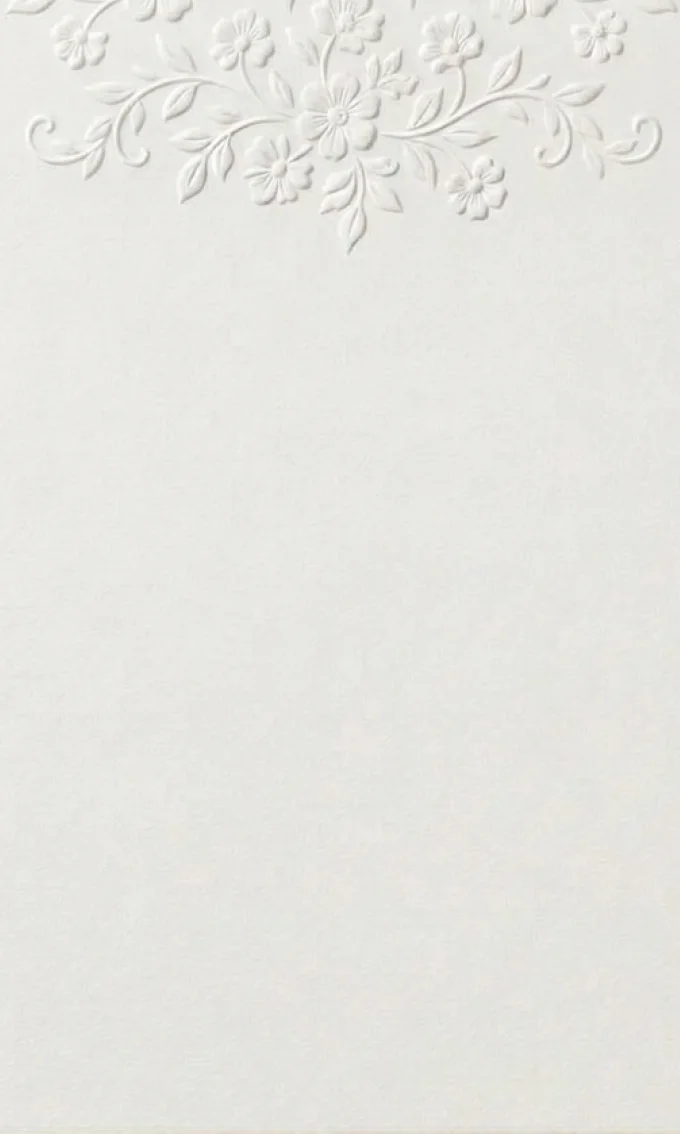
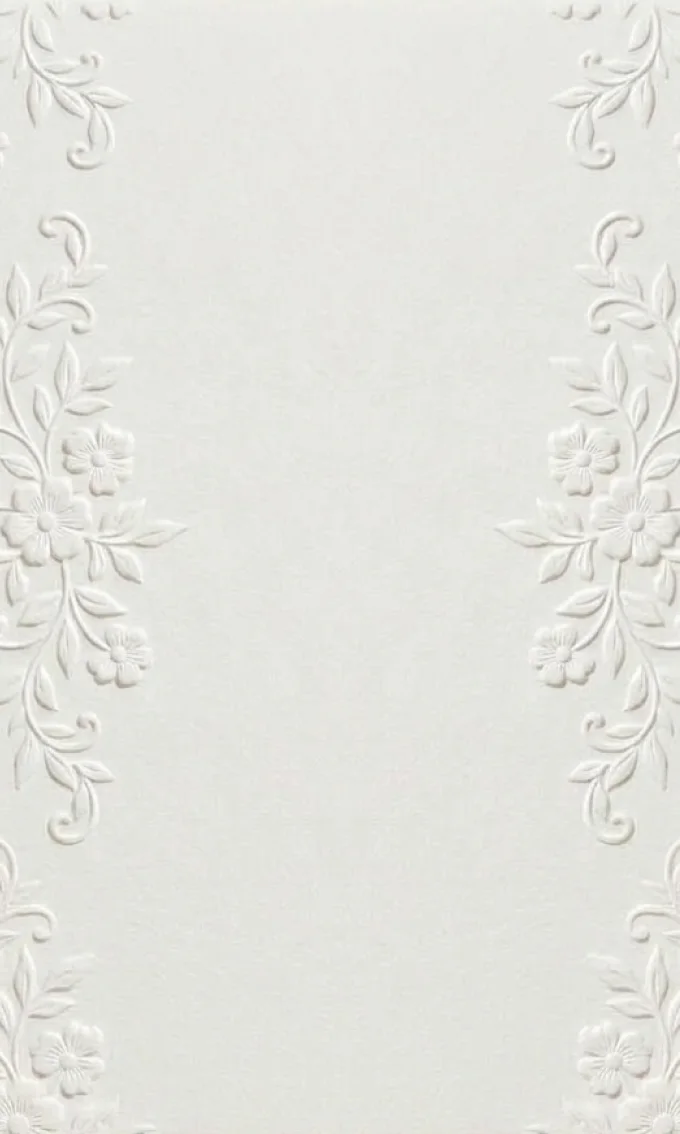
Mono Elegance: new save the date background (garlands down both sides); content centred on the page

diff --git a/app/globals.css b/app/globals.css
@@ -918,3 +918,7 @@ body:has(.inv[data-template="mono-elegance"]) .music-btn { color:#2a2a2a; border
 .inv[data-template="mono-elegance"] .venue-recep { font-size:calc(31px * var(--k,1)); }
 .inv[data-template="mono-elegance"] .closing-text { font-size:calc(29px * var(--k,1)); }
 .inv[data-template="mono-elegance"] .script.tl-title { font-size:calc(44px * var(--k,1)); }
+/* Mono Elegance, save the date page: its own background with garlands down both sides (public/templates/mono/v1/bg-photo.webp) */
+.inv[data-template="mono-elegance"] .card-sheet { background:#f3f3f1 url(/templates/mono/v1/bg-photo.webp) center / cover no-repeat; isolation:auto; }
+.inv[data-template="mono-elegance"] .card-sheet::before, .inv[data-template="mono-elegance"] .card.card-sheet:not(.cover)::after { display:none; }
+.inv[data-template="mono-elegance"] .sheet-in { padding-top:4cqh; padding-bottom:6cqh; justify-content:center; }
